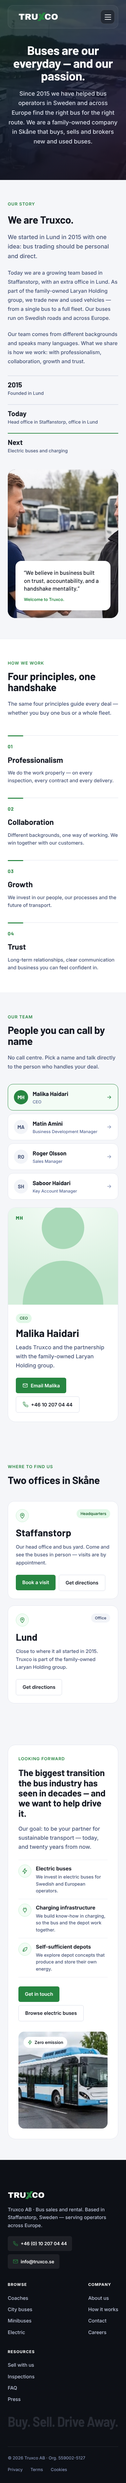
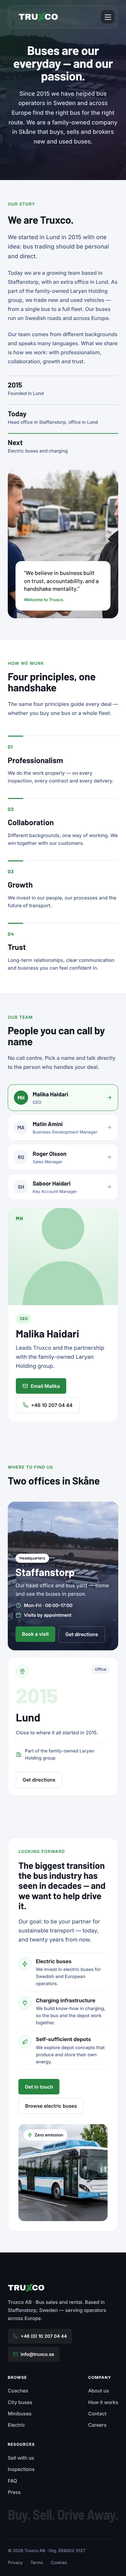
About us: offices section uses photo feature layout (option A)
Claude-Session: https://claude.ai/code/session_01CJrfSMbtJkdqaRmDBKHX4E

diff --git a/truxco-design/website-v2/AboutUs.dc.html b/truxco-design/website-v2/AboutUs.dc.html
@@ -360,6 +360,26 @@ a{color:#3050A6}a:hover{color:#151923}
 @media (prefers-reduced-motion: reduce){.d-main{animation:none}}
 @media (max-width: 1080px){.d-box{grid-template-columns:minmax(0,1fr)}.d-list{display:grid;grid-template-columns:repeat(2,minmax(0,1fr))}}
 @media (max-width: 700px){.d-list{grid-template-columns:minmax(0,1fr)}.d-main{grid-template-columns:minmax(0,1fr)}.d-ph{min-height:300px}.d-info{padding:28px 24px}.d-info h3{font-size:32px}}
+
+.ofc-grid{display:grid;grid-template-columns:minmax(0,1.6fr) minmax(0,1fr);gap:20px}
+.ofc-hq{position:relative;border-radius:22px;overflow:hidden;min-height:420px;display:flex;align-items:flex-end;background:#0E162A}
+.ofc-hq img{position:absolute;inset:0;width:100%;height:100%;object-fit:cover}
+.ofc-shade{position:absolute;inset:0;background:linear-gradient(180deg,rgba(14,22,42,.05) 20%,rgba(14,22,42,.9) 100%)}
+.ofc-in{position:relative;padding:32px;display:flex;flex-direction:column;gap:12px;color:#FFFFFF}
+.ofc-in h3{margin:0;font-family:'Barlow',sans-serif;font-weight:700;font-size:40px;line-height:1.05;color:#FFFFFF}
+.ofc-in p{margin:0;font-size:16px;line-height:1.6;color:#D9DDE8;max-width:46ch}
+.ofc-tagw{align-self:flex-start;font-size:12px;font-weight:600;color:#151923;background:#FFFFFF;padding:5px 12px;border-radius:999px}
+.ofc-info{display:flex;flex-wrap:wrap;gap:8px 20px;font-size:14px;font-weight:600}.ofc-info span{display:inline-flex;align-items:center;gap:8px}
+.ofc-ghost{display:inline-flex;align-items:center;justify-content:center;height:48px;padding:0 20px;border-radius:6px;border:1px solid rgba(255,255,255,0.3);color:#FFFFFF;text-decoration:none;font-weight:600;font-size:15px;transition:background .15s}.ofc-ghost:hover{background:rgba(255,255,255,0.1);color:#FFFFFF}
+.ofc-ghost:focus-visible{outline:2px solid #FFFFFF;outline-offset:3px}
+.ofc-lund{background:#FFFFFF;border:1px solid #E3E6EE;border-radius:22px;padding:32px;display:flex;flex-direction:column;gap:10px}
+.ofc-top{display:flex;justify-content:space-between;align-items:center;margin-bottom:12px}
+.ofc-year{font-family:'Barlow',sans-serif;font-weight:800;font-size:64px;line-height:1;color:#E2F2E7}
+.ofc-lund h3{margin:0;font-family:'Barlow',sans-serif;font-weight:700;font-size:34px;color:#151923}
+.ofc-lund p{margin:0;font-size:15px;line-height:1.6;color:#475476}
+.ofc-note{display:flex;gap:10px;align-items:center;font-size:14px;color:#475476;padding:14px 0;border-top:1px solid #ECEEF4;margin-top:8px}
+@media (max-width: 860px){.ofc-grid{grid-template-columns:minmax(0,1fr)}.ofc-hq{min-height:460px}}
+@media (max-width: 600px){.ofc-in,.ofc-lund{padding:24px}.ofc-in h3{font-size:32px}}
 </style>
 </helmet>
 <div id="tx-root" style="position: relative; font-family: Inter, system-ui, sans-serif; color: #151923; background: #F5F6F9; font-size: 16px; font-weight: 500; line-height: 1.55">
@@ -491,19 +511,12 @@ a{color:#3050A6}a:hover{color:#151923}
 <section id="offices" class="ab-sec" aria-labelledby="ab-off-h" style="padding: 0 24px 104px">
 <div class="ab-wrap" style="display: flex; flex-direction: column; gap: 48px">
 <div style="display: flex; flex-direction: column; gap: 14px"><span class="ab-eyebrow">Where to find us</span><h2 id="ab-off-h" class="ab-h2">Two offices in Skåne</h2></div>
-<div class="ab-offices">
-<article class="ab-office">
-<div style="display: flex; justify-content: space-between; align-items: center; gap: 12px"><span class="ab-ic"><svg aria-hidden="true" width="20" height="20" viewBox="0 0 24 24" fill="none" stroke="#278641" stroke-width="1.8" stroke-linecap="round" stroke-linejoin="round" style="flex: none"><path d="M12 22s7-6.2 7-12a7 7 0 0 0-14 0c0 5.8 7 12 7 12z"></path><circle cx="12" cy="10" r="2.6"></circle></svg></span><span class="ab-tag">Headquarters</span></div>
-<h3>Staffanstorp</h3>
-<p>Our head office and bus yard. Come and see the buses in person — visits are by appointment.</p>
-<div class="ab-row"><a class="ab-btn" href="Contact.dc.html#visit">Book a visit</a><a class="ab-btn2" href="https://maps.google.com/?q=Staffanstorp,Sweden" target="_blank" rel="noopener">Get directions</a></div>
-</article>
-<article class="ab-office">
-<div style="display: flex; justify-content: space-between; align-items: center; gap: 12px"><span class="ab-ic"><svg aria-hidden="true" width="20" height="20" viewBox="0 0 24 24" fill="none" stroke="#278641" stroke-width="1.8" stroke-linecap="round" stroke-linejoin="round" style="flex: none"><path d="M12 22s7-6.2 7-12a7 7 0 0 0-14 0c0 5.8 7 12 7 12z"></path><circle cx="12" cy="10" r="2.6"></circle></svg></span><span class="ab-tag" style="background: #F2F4F8; color: #475476">Office</span></div>
-<h3>Lund</h3>
-<p>Close to where it all started in 2015. Truxco is part of the family-owned Laryan Holding group.</p>
-<div class="ab-row"><a class="ab-btn2" href="https://maps.google.com/?q=Lund,Sweden" target="_blank" rel="noopener">Get directions</a></div>
-</article>
+<div class="ofc-grid">
+<article class="ofc-hq"><img src="/_blob/c412b4374d734066a683e1b2284738be" alt="The Truxco bus yard in Staffanstorp"><div aria-hidden="true" class="ofc-shade"></div>
+<div class="ofc-in"><span class="ofc-tagw">Headquarters</span><h3>Staffanstorp</h3><p>Our head office and bus yard — come and see the buses in person.</p>
+<div class="ofc-info"><span><svg aria-hidden="true" width="18" height="18" viewBox="0 0 24 24" fill="none" stroke="#9CE7B1" stroke-width="1.8" stroke-linecap="round" stroke-linejoin="round" style="flex: none"><circle cx="12" cy="12" r="9"></circle><path d="M12 7v5l3 2"></path></svg>Mon–Fri · 08:00–17:00</span><span><svg aria-hidden="true" width="18" height="18" viewBox="0 0 24 24" fill="none" stroke="#9CE7B1" stroke-width="1.8" stroke-linecap="round" stroke-linejoin="round" style="flex: none"><rect x="3" y="4.5" width="18" height="16.5" rx="2"></rect><path d="M3 9.5h18M8 2.5v4M16 2.5v4"></path></svg>Visits by appointment</span></div>
+<div class="ab-row" style="margin-top: 4px"><a class="ab-btn" href="Contact.dc.html#visit">Book a visit</a><a class="ofc-ghost" href="https://maps.google.com/?q=Staffanstorp,Sweden" target="_blank" rel="noopener">Get directions</a></div></div></article>
+<article class="ofc-lund"><div class="ofc-top"><span class="ab-ic"><svg aria-hidden="true" width="20" height="20" viewBox="0 0 24 24" fill="none" stroke="#278641" stroke-width="1.8" stroke-linecap="round" stroke-linejoin="round" style="flex: none"><path d="M12 22s7-6.2 7-12a7 7 0 0 0-14 0c0 5.8 7 12 7 12z"></path><circle cx="12" cy="10" r="2.6"></circle></svg></span><span class="ab-tag" style="background: #F2F4F8; color: #475476">Office</span></div><span class="ofc-year" aria-hidden="true">2015</span><h3>Lund</h3><p>Close to where it all started in 2015.</p><div class="ofc-note"><svg aria-hidden="true" width="18" height="18" viewBox="0 0 24 24" fill="none" stroke="#278641" stroke-width="1.8" stroke-linecap="round" stroke-linejoin="round" style="flex: none"><path d="M4 21V5a1 1 0 0 1 1-1h9a1 1 0 0 1 1 1v16M15 9h4a1 1 0 0 1 1 1v11M3 21h18M8 8h3M8 12h3M8 16h3"></path></svg>Part of the family-owned Laryan Holding group</div><div class="ab-row" style="margin-top: auto"><a class="ab-btn2" href="https://maps.google.com/?q=Lund,Sweden" target="_blank" rel="noopener">Get directions</a></div></article>
 </div>
 </div>
 </section>
